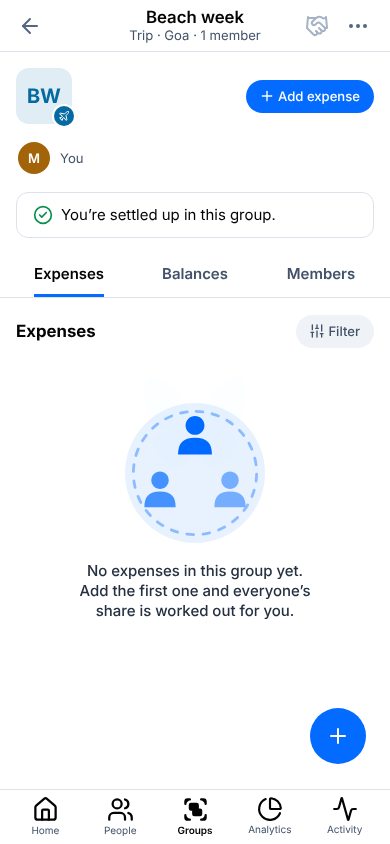
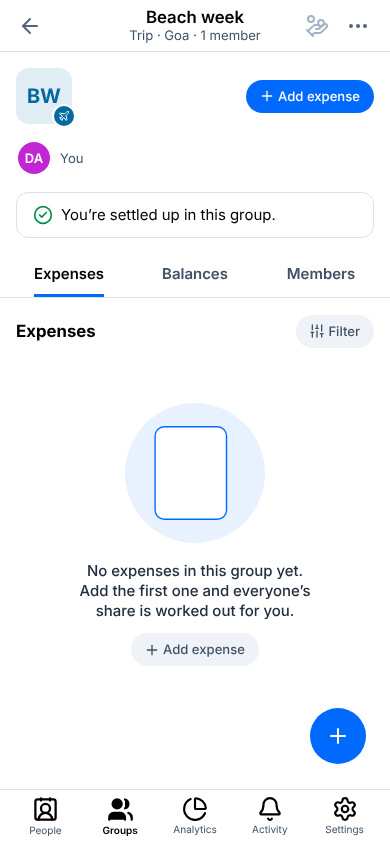
feat(header): Search & Ask only on the start tab (owner 218)
The sparkles button shows only in the header of the tab the app opens on (People by default, following Settings >
Navigation "Open on"); Groups, Analytics, Activity and Settings no longer draw it. Cmd/Ctrl+K and "/" still open the
drawer anywhere on web. The left slot that balances the button (SearchAskSpacer) follows it, so every title stays
centred. New state/startTab.ts useIsStartTab; specs updated, plus a shell.spec check that the button follows a start
tab change. ARCHITECTURE 26.3, 26.4, 26.14, 26.19, decision row 218, a 23 lesson.

Claude-Session: https://claude.ai/code/session_01QJPSErcLR7cyNrxFhnBkTN

diff --git a/apps/client/e2e/search.spec.ts b/apps/client/e2e/search.spec.ts
@@ -216,14 +216,17 @@ test('recent searches: kept on submit, reopened with a tap, cleared behind a pro
 test('Ctrl+K toggles the drawer from anywhere and "/" opens it; the button tooltip and input show the hint', async ({
   page,
 }) => {
-  await openDemo(page, '/groups')
-  await expect(page.getByTestId('screen-groups')).toBeVisible()
-  const button = page.getByTestId('screen-groups').getByTestId('header-search-ask')
+  // The button is on the start tab (People) only (owner 218); the shortcut works from any page.
+  await openDemo(page, '/people')
+  await expect(page.getByTestId('screen-people')).toBeVisible()
+  const button = page.getByTestId('screen-people').getByTestId('header-search-ask')
   await expect(button).toBeVisible()
   await expect(button.locator('xpath=ancestor::*[@title][1]')).toHaveAttribute(
     'title',
     /Search or ask Splito \((⌘K|Ctrl K)\)/,
   )
+  await openDemo(page, '/groups')
+  await expect(page.getByTestId('screen-groups')).toBeVisible()
   await page.keyboard.press('Control+k')
   await expect(page.getByTestId('search-ask')).toBeVisible()
   await expect(page.getByTestId('search-ask-shortcut')).toHaveText(/⌘K|Ctrl K/)
@@ -248,17 +251,21 @@ test('/search opens the drawer with the query; tapping a result opens it and clo
 test.describe('phone', () => {
   test.use({viewport: PHONE})
 
-  test('every top-level header has the button left of its action; it opens the full-height drawer', async ({
+  test('the start tab\'s header has the button left of its action, no other tab has it; it opens the full-height drawer', async ({
     page,
   }) => {
     await openDemo(page)
     await expect(page.getByTestId('screen-people')).toBeVisible()
-    for (const [path, screen, action] of [
-      ['/people', 'screen-people', 'people-add-friend'],
-      ['/groups', 'screen-groups', 'groups-new'],
-      ['/analytics', 'screen-analytics', 'analytics-export'],
-      ['/activity', 'screen-activity', 'activity-mark-all-read'],
+    for (const [path, screen] of [
+      ['/groups', 'screen-groups'],
+      ['/analytics', 'screen-analytics'],
+      ['/activity', 'screen-activity'],
     ] as const) {
+      await openDemo(page, path)
+      await expect(page.getByTestId(screen)).toBeVisible()
+      await expect(page.getByTestId(screen).getByTestId('header-search-ask')).toHaveCount(0)
+    }
+    for (const [path, screen, action] of [['/people', 'screen-people', 'people-add-friend']] as const) {
       await openDemo(page, path)
       const button = page.getByTestId(screen).getByTestId('header-search-ask')
       await expect(button).toBeVisible()

diff --git a/apps/client/e2e/shell.spec.ts b/apps/client/e2e/shell.spec.ts
@@ -21,12 +21,12 @@ const RIGHT_COLUMN = 320
 const TABS = ['people', 'groups', 'analytics', 'activity', 'settings']
 /* Top-level pages and their one header action, at the far right. */
 const TOP_LEVEL: [string, string, string][] = [
-  // People adds Invite people (invite links live only in its sheet, 26.18 decision 77); Settings, a tab (owner 206), has Search & Ask only.
+  // People adds Invite people (invite links live only in its sheet, 26.18 decision 77). Settings has no header action:
+  // Search & Ask is on the start tab only (owner 218).
   ['/people', 'screen-people', 'people-add-friend'],
   ['/groups', 'screen-groups', 'groups-new'],
   ['/analytics', 'screen-analytics', 'analytics-export'],
   ['/activity', 'screen-activity', 'activity-mark-all-read'],
-  ['/settings', 'screen-settings', 'header-search-ask'],
 ]
 
 async function open(page: Page, path: string, screen: string) {
@@ -795,4 +795,30 @@ test('Activity is a bell that turns solid when selected, so the selected tab sho
   await expect(page.getByTestId('screen-activity')).toBeVisible()
   // Selected: the bell is filled in the text colour.
   await expect.poll(fill).not.toBe('none')
+})
+
+test('Search & Ask sits only on the start tab, and follows it when the start tab changes (owner 218)', async ({page}) => {
+  await page.setViewportSize(DESKTOP)
+  await open(page, '/people', 'screen-people')
+  await expect(on(page, 'screen-people', 'header-search-ask')).toBeVisible()
+  for (const [path, screen] of [
+    ['/groups', 'screen-groups'],
+    ['/analytics', 'screen-analytics'],
+    ['/activity', 'screen-activity'],
+    ['/settings', 'screen-settings'],
+  ] as const) {
+    await open(page, path, screen)
+    await expect(on(page, screen, 'header-search-ask')).toHaveCount(0)
+  }
+  // Cmd/Ctrl+K still opens the drawer from any page.
+  await page.keyboard.press('Control+k')
+  await expect(page.getByTestId('search-ask')).toBeVisible()
+  await page.keyboard.press('Escape')
+  // Open on Groups: the button moves there.
+  await page.waitForFunction(() => 'splito' in window)
+  await page.evaluate(() => (window as any).splito.setPref('startTab', 'groups'))
+  await open(page, '/groups', 'screen-groups')
+  await expect(on(page, 'screen-groups', 'header-search-ask')).toBeVisible()
+  await open(page, '/people', 'screen-people')
+  await expect(on(page, 'screen-people', 'header-search-ask')).toHaveCount(0)
 })

diff --git a/apps/client/src/components/SearchAsk/SearchAskButton.tsx b/apps/client/src/components/SearchAsk/SearchAskButton.tsx
@@ -1,21 +1,36 @@
 import {useEffect, useRef} from 'react'
 import {View} from 'react-native'
 import {useLingui} from '@lingui/react/macro'
+import {type TabId} from '@splito/sync'
 
 import {useBreakpoints} from '#/alf'
 import {Sparkles_Stroke2_Corner0_Rounded as SparklesIcon} from '#/components/icons/Sparkles'
 import * as Layout from '#/components/Layout'
 import {IS_WEB} from '#/env'
+import {useIsStartTab} from '#/state/startTab'
 import {useSearchAsk} from './context'
 import {SHORTCUT_HINT} from './useSearchAskHotkey'
 
 /**
- * The Search & Ask button (ARCHITECTURE 26.3, decision 74): Lucide's
- * Sparkles, the widely recognised AI mark, in every top-level header to the
- * left of the page's action (the page's only action on Home, where `edge` puts it at the far right). It opens the one drawer for search and AI.
+ * The Search & Ask button (ARCHITECTURE 26.3, decisions 74, 218): Lucide's Sparkles, the widely recognised AI mark,
+ * in the header of the start tab only (the tab the app opens on, People by default), to the left of the page's
+ * action. Every other tab draws nothing here; Cmd/Ctrl+K and "/" still open the drawer from anywhere on web.
  * Web shows the label as a tooltip, with the Cmd/Ctrl+K hint on desktop.
  */
-export function SearchAskButton({edge = false}: {edge?: boolean} = {}) {
+export function SearchAskButton({tab, edge = false}: {tab: TabId; edge?: boolean}) {
+  const isStart = useIsStartTab(tab)
+  return isStart ? <SearchAskAction edge={edge} /> : null
+}
+
+/**
+ * The left-hand slot that balances the button, so the title stays centred: there only while the button is (the start
+ * tab), or the title sat half a button off centre on every other tab.
+ */
+export function SearchAskSpacer({tab}: {tab: TabId}) {
+  return useIsStartTab(tab) ? <Layout.Header.Slot /> : null
+}
+
+function SearchAskAction({edge}: {edge: boolean}) {
   const {t: l} = useLingui()
   const {open} = useSearchAsk()
   const {gtMobile} = useBreakpoints()

diff --git a/apps/client/src/screens/Activity.tsx b/apps/client/src/screens/Activity.tsx
@@ -31,7 +31,7 @@ import {useActivityActions} from '#/components/activity/useActivityActions'
 import {useActivityFeed} from '#/components/activity/useActivityFeed'
 import {AddExpenseFABInset} from '#/components/AddExpenseFAB'
 import {Button, ButtonIcon, ButtonText} from '#/components/Button'
-import {SearchAskButton} from '#/components/SearchAsk/SearchAskButton'
+import {SearchAskButton, SearchAskSpacer} from '#/components/SearchAsk/SearchAskButton'
 import {HeaderAvatar} from '#/components/HeaderAvatar'
 import {ActivityFilterDialog} from '#/components/activity/ActivityFilterDialog'
 import {ACTIVITY_TABS, readActivityParams, activityParams, typesToParam} from '#/components/activity/urlState'
@@ -200,15 +200,15 @@ export function ActivityScreen() {
       <Layout.Header.Sticky>
         <Layout.Header.Outer noBottomBorder sticky={false}>
           <HeaderAvatar />
-          {/* Balances Search & Ask and Filters on the right, so the title stays centred. */}
-          <Layout.Header.Slot />
+          {/* Balance Search & Ask (start tab only, owner 218) and Filters on the right, so the title stays centred. */}
+          <SearchAskSpacer tab="activity" />
           <Layout.Header.Slot />
           <Layout.Header.Content>
             <Layout.Header.TitleText>
               <Trans>Activity</Trans>
             </Layout.Header.TitleText>
           </Layout.Header.Content>
-          <SearchAskButton />
+          <SearchAskButton tab="activity" />
           <Layout.Header.ActionButton
             testID="activity-filters"
             label={activeFilterCount > 0 ? l`Filters, ${activeFilterCount} on` : l`Filters`}

diff --git a/apps/client/e2e/peopleTabs.spec.ts b/apps/client/e2e/peopleTabs.spec.ts
@@ -189,9 +189,9 @@ test('a main screen opened from a link is its tab with Back in place of the avat
   const groups = page.getByTestId('screen-groups').last()
   await expect(groups.getByTestId('header-back')).toBeVisible()
   await expect(groups.getByTestId('header-avatar')).toHaveCount(0)
-  // Same as the tab: the FAB and every header action (Search & Ask, Create group), the list's Filters.
+  // Same as the tab: the FAB and every header action (Create group; Search & Ask is the start tab's only, owner 218), the list's Filters.
   await expect(groups.getByTestId('fab-add')).toBeVisible()
-  await expect(groups.getByTestId('header-search-ask')).toBeVisible()
+  await expect(groups.getByTestId('header-search-ask')).toHaveCount(0)
   await expect(groups.getByTestId('groups-new')).toBeVisible()
   await expect(groups.getByTestId('list-filters')).toBeVisible()
   // Back returns to where the link was pressed.
@@ -206,7 +206,7 @@ test('a main screen opened from a link is its tab with Back in place of the avat
   await expect(tab.getByTestId('header-back')).toHaveCount(0)
   await expect(tab.getByTestId('fab-add')).toBeVisible()
   // Differs only by Back: the tab has the same actions.
-  await expect(tab.getByTestId('header-search-ask')).toBeVisible()
+  await expect(tab.getByTestId('header-search-ask')).toHaveCount(0)
   await expect(tab.getByTestId('groups-new')).toBeVisible()
   await expect(tab.getByTestId('list-filters')).toBeVisible()
   // The other links: Analytics, then People opened from Groups.

diff --git a/apps/client/perf/schema-v2.spec.ts b/apps/client/perf/schema-v2.spec.ts
@@ -95,7 +95,9 @@ async function measure(page: Page, label: string, extra: Record<string, unknown>
     analytics.push(await openTab(page, 'tab-analytics', 'analytics-expenses-title'))
   }
   // Search: one keystroke-sized change to the first page of results, for narrow and broad queries (the Search & Ask drawer).
-  await page.getByTestId('header-search-ask').last().click()
+  // Search & Ask is on the start tab (People) only (owner 218).
+  await page.getByTestId('tab-people').click()
+  await page.getByTestId('screen-people').getByTestId('header-search-ask').click()
   await expect(page.getByTestId('search-input')).toBeVisible()
   const searches: Record<string, number> = {}
   const searchTotals: Record<string, number> = {}
@@ -248,7 +250,9 @@ async function askCase(page: Page) {
   await page.getByTestId('ask-input').pressSequentially(sentence, {delay: 0})
   const typedInChat = await page.getByTestId('ask-input').inputValue()
   await page.keyboard.press('Escape')
-  await page.getByTestId('header-search-ask').last().click()
+  // Search & Ask is on the start tab (People) only (owner 218).
+  await page.getByTestId('tab-people').click()
+  await page.getByTestId('screen-people').getByTestId('header-search-ask').click()
   await page.getByTestId('search-input').pressSequentially(sentence, {delay: 0})
   const typedInSearch = await page.getByTestId('search-input').inputValue()
   await page.keyboard.press('Escape')

diff --git a/apps/client/src/screens/Groups/index.tsx b/apps/client/src/screens/Groups/index.tsx
@@ -32,7 +32,7 @@ import {AddExpenseFABInset} from '#/components/AddExpenseFAB'
 import {Button, ButtonIcon, ButtonText} from '#/components/Button'
 import {ChevronExpand_Stroke2_Corner0_Rounded as ChevronDownIcon} from '#/components/icons/Chevron'
 import {useDialogControl} from '#/components/Dialog'
-import {SearchAskButton} from '#/components/SearchAsk/SearchAskButton'
+import {SearchAskButton, SearchAskSpacer} from '#/components/SearchAsk/SearchAskButton'
 import {HeaderAvatar} from '#/components/HeaderAvatar'
 import {PlusLarge_Stroke2_Corner0_Rounded as PlusIcon} from '#/components/icons/Plus'
 import * as Layout from '#/components/Layout'
@@ -148,14 +148,14 @@ export function GroupsScreen() {
     <TabScreen testID="screen-groups">
       <Layout.Header.Outer>
         <HeaderAvatar />
-        {/* Balances Search & Ask on the right, so the title stays centred. */}
-        <Layout.Header.Slot />
+        {/* Balances Search & Ask on the right (start tab only, owner 218), so the title stays centred. */}
+        <SearchAskSpacer tab="groups" />
         <Layout.Header.Content>
           <Layout.Header.TitleText>
             <Trans>Groups</Trans>
           </Layout.Header.TitleText>
         </Layout.Header.Content>
-        <SearchAskButton />
+        <SearchAskButton tab="groups" />
         <Layout.Header.ActionButton
           testID="groups-new"
           label={l`Create group`}

diff --git a/apps/client/src/screens/Analytics/index.tsx b/apps/client/src/screens/Analytics/index.tsx
@@ -13,7 +13,7 @@ import {List} from '#/view/com/util/List'
 import {atoms as a, useTheme} from '#/alf'
 import {AddExpenseFABInset} from '#/components/AddExpenseFAB'
 import {Button, ButtonIcon, ButtonText} from '#/components/Button'
-import {SearchAskButton} from '#/components/SearchAsk/SearchAskButton'
+import {SearchAskButton, SearchAskSpacer} from '#/components/SearchAsk/SearchAskButton'
 import {HeaderAvatar} from '#/components/HeaderAvatar'
 import {Download_Stroke2_Corner0_Rounded as DownloadIcon} from '#/components/icons/Download'
 import {PlusLarge_Stroke2_Corner0_Rounded as PlusIcon} from '#/components/icons/Plus'
@@ -69,14 +69,14 @@ export function AnalyticsScreen() {
     <TabScreen testID="screen-analytics">
       <Layout.Header.Outer>
         <HeaderAvatar />
-        {/* Balances Search & Ask on the right, so the title stays centred. */}
-        <Layout.Header.Slot />
+        {/* Balances Search & Ask on the right (start tab only, owner 218), so the title stays centred. */}
+        <SearchAskSpacer tab="analytics" />
         <Layout.Header.Content>
           <Layout.Header.TitleText>
             <Trans>Analytics</Trans>
           </Layout.Header.TitleText>
         </Layout.Header.Content>
-        <SearchAskButton />
+        <SearchAskButton tab="analytics" />
         <Layout.Header.ActionButton
           testID="analytics-export"
           label={l`Export CSV`}

diff --git a/apps/client/src/screens/People/index.tsx b/apps/client/src/screens/People/index.tsx
@@ -29,7 +29,7 @@ import {useDialogControl} from '#/components/Dialog'
 import {Button, ButtonIcon} from '#/components/Button'
 import {HITSLOP_10} from '#/lib/constants'
 import {SettingsGear2_Stroke2_Corner0_Rounded as GearIcon} from '#/components/icons/Settings'
-import {SearchAskButton} from '#/components/SearchAsk/SearchAskButton'
+import {SearchAskButton, SearchAskSpacer} from '#/components/SearchAsk/SearchAskButton'
 import {HeaderAvatar} from '#/components/HeaderAvatar'
 import {PersonPlus_Filled_Stroke2_Corner0_Rounded as PersonPlusIcon} from '#/components/icons/Person'
 import * as Layout from '#/components/Layout'
@@ -143,14 +143,14 @@ export function PeopleScreen() {
     <TabScreen testID="screen-people">
       <Layout.Header.Outer>
         <HeaderAvatar />
-        {/* Search & Ask and Add friend on the right, so the title stays centred. */}
-        <Layout.Header.Slot />
+        {/* Balances Search & Ask on the right (start tab only, owner 218), so the title stays centred. */}
+        <SearchAskSpacer tab="people" />
         <Layout.Header.Content>
           <Layout.Header.TitleText>
             <Trans>People</Trans>
           </Layout.Header.TitleText>
         </Layout.Header.Content>
-        <SearchAskButton />
+        <SearchAskButton tab="people" />
         <Layout.Header.ActionButton
           testID="people-add-friend"
           ref={addFriendRef}

diff --git a/apps/client/src/screens/Settings/index.tsx b/apps/client/src/screens/Settings/index.tsx
@@ -15,7 +15,6 @@ import {FileExport_Stroke2_Corner0_Rounded as ExportIcon} from '#/components/ico
 import {PeopleGroup_Stroke2_Corner0_Rounded as FriendsIcon} from '#/components/icons/Invite'
 import * as Layout from '#/components/Layout'
 import {HeaderAvatar} from '#/components/HeaderAvatar'
-import {SearchAskButton} from '#/components/SearchAsk/SearchAskButton'
 import {TabScreen} from '#/components/TabScreen'
 import {useTabLabels} from '#/components/settings/NavigationEditor'
 import {SETTINGS_SECTIONS, type SettingsSectionId, useSectionInfo} from '#/components/settings/sections'
@@ -54,7 +53,7 @@ export function SettingsScreen() {
             <Trans>Settings</Trans>
           </Layout.Header.TitleText>
         </Layout.Header.Content>
-        <SearchAskButton edge />
+        <Layout.Header.Slot />
       </Layout.Header.Outer>
       <Layout.Content>
         <SettingsList.Container>

diff --git a/apps/client/src/state/startTab.ts b/apps/client/src/state/startTab.ts
@@ -1,0 +1,12 @@
+import {type TabId} from '@splito/sync'
+
+import {usePref} from '#/data/hooks'
+
+/**
+ * Whether `tab` is the tab the app opens on (Settings > Navigation "Open on", People by default; owner 218). Undefined
+ * while the preferences load. `components/` may not import `data/`, so they come here.
+ */
+export function useIsStartTab(tab: TabId): boolean | undefined {
+  const [start] = usePref('startTab')
+  return start === undefined ? undefined : start === tab
+}

diff --git a/apps/client/e2e/tripLocation.spec.ts b/apps/client/e2e/tripLocation.spec.ts
@@ -91,9 +91,10 @@ for (const {name, size} of WIDTHS) {
     )
 
     // Search finds the group by its place.
-    await page.goto('/groups')
+    // Search & Ask is on the start tab (People) only (owner 218).
+    await page.goto('/people')
     await page
-      .getByTestId('screen-groups')
+      .getByTestId('screen-people')
       .getByTestId('header-search-ask')
       .click()
     await page.getByTestId('search-input').fill('gokarna')
